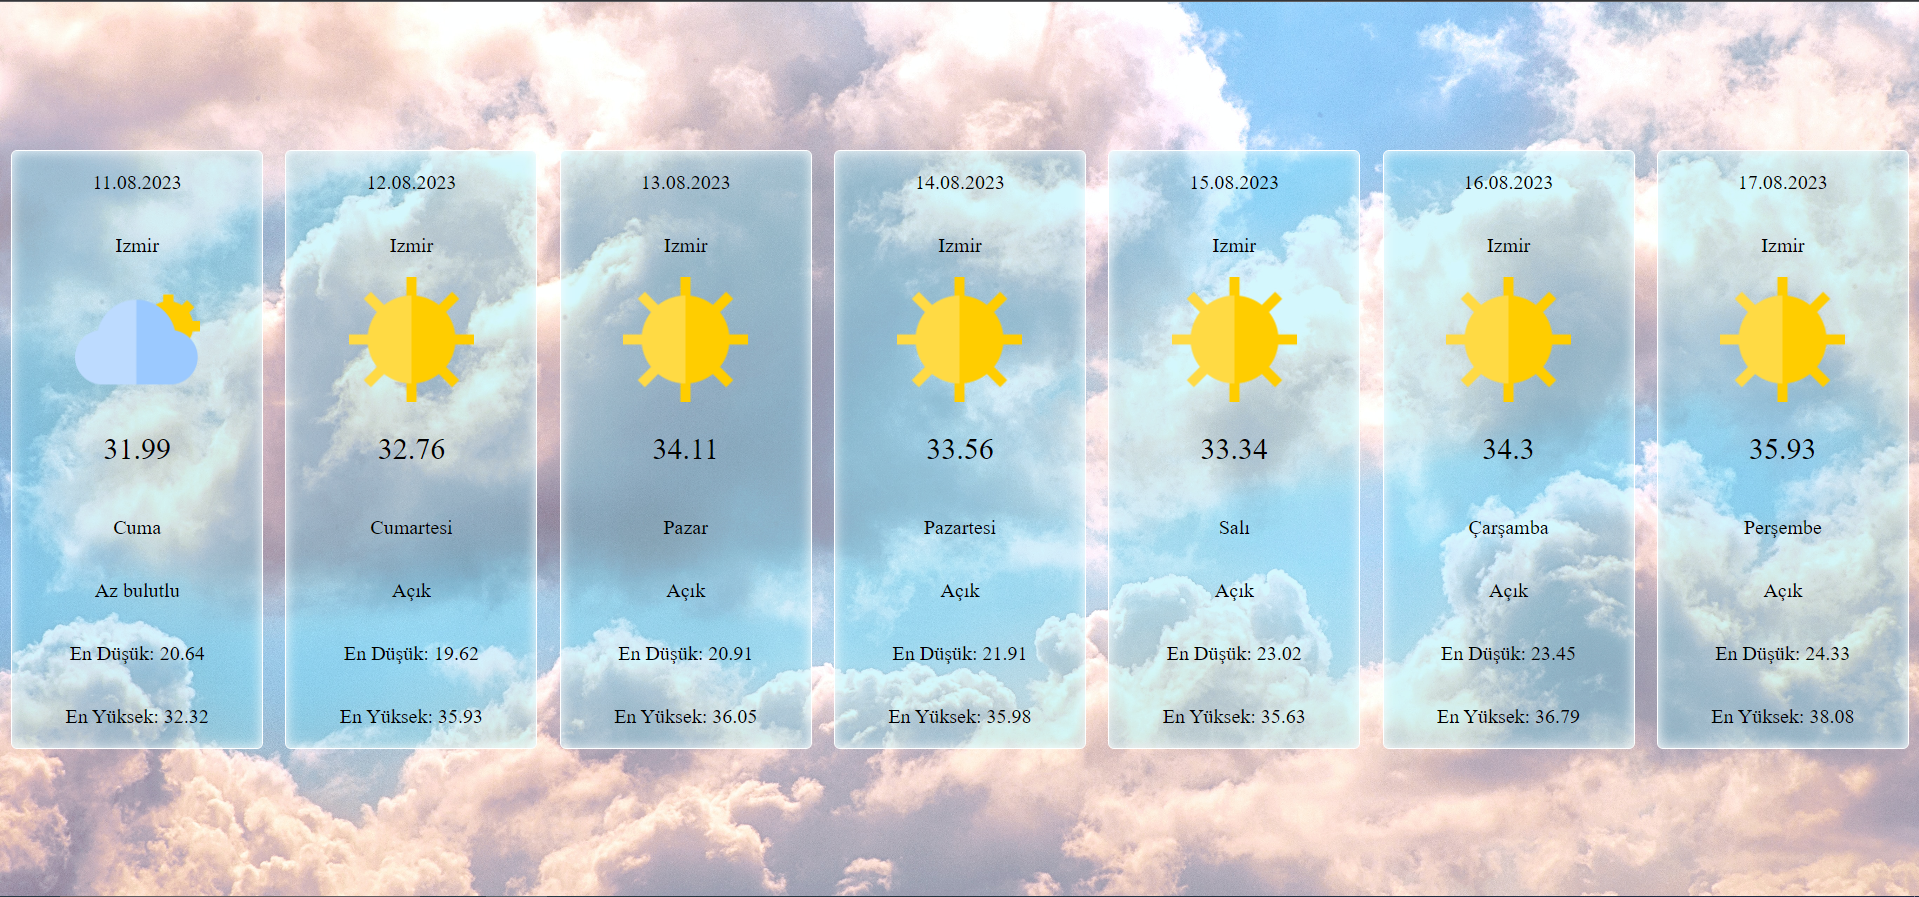
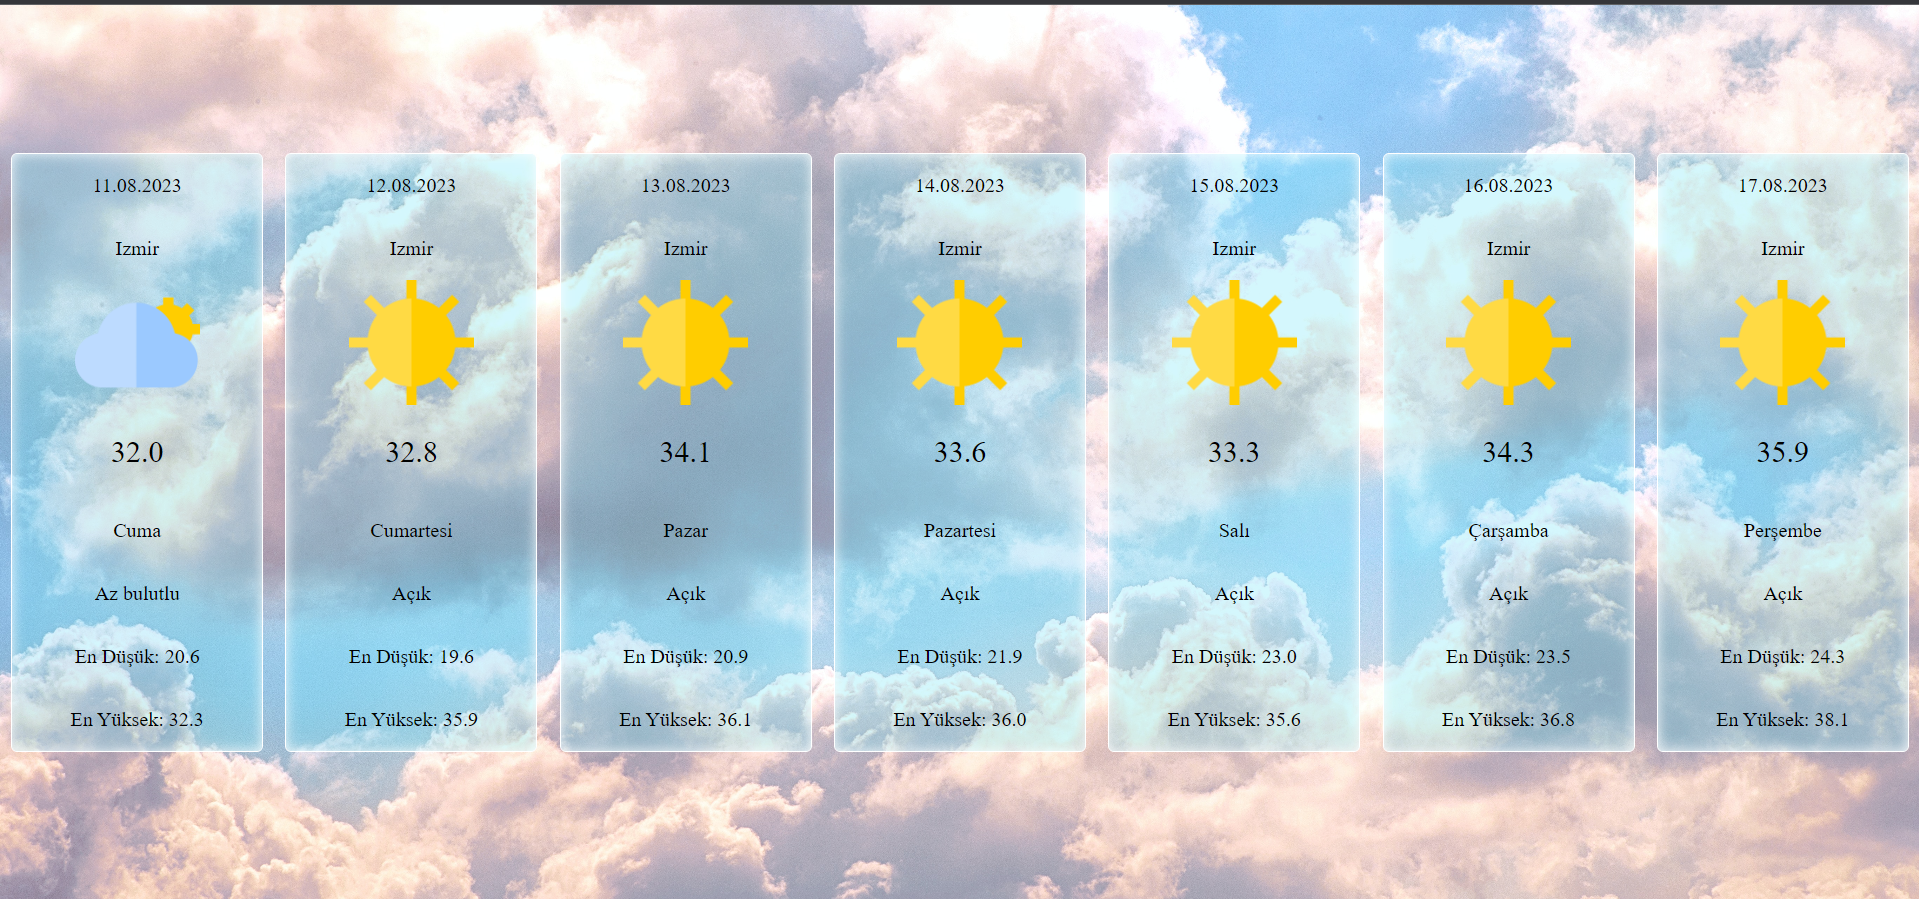
ondalıklı sayılar ve ekran görüntüsü güncellendi

diff --git a/index.php b/index.php
@@ -25,17 +25,17 @@ $router->map('POST','/', function(){
 
         if (isset($result['result']) && is_array($result['result'])) {
             echo "<div class='weather-container' style='display:flex;width: 100%;align-items: center;justify-content: center;justify-content: space-around;'>";
-
+            
             foreach ($result['result'] as $weatherData) {
                 echo "<div class='card' style='border-style:solid; border-width: 1px; border-color: white;width: 200px;height: auto; display: flex; flex-direction: column; align-items: center;background-color: rgba(115, 228, 250, 0.3);box-shadow: inset 0px 0px 10px rgba(255,255,255,0.9);border-radius: 5px 5px 5px 5px;'>
                         <p>" . $weatherData['date'] . "</p>
                         <p>" . ucfirst($result['city']) . "</p>
                         <img src='" . $weatherData['icon'] . "' style='width: 100px; height: auto;'>
-                        <p style='font-size:x-large;'>" . $weatherData['degree'] . "</p>
+                        <p style='font-size:x-large;'>" . number_format($weatherData['degree'], 1, '.', '') . "</p>
                         <p>" . $weatherData['day'] . "</p>
                         <p>" . ucfirst($weatherData['description']) . "</p>
-                        <p>En Düşük: " . $weatherData['min'] . "</p>
-                        <p>En Yüksek: " . $weatherData['max'] . "</p>
+                        <p>En Düşük: " . number_format($weatherData['min'], 1, '.', '') . "</p>
+                        <p>En Yüksek: " . number_format($weatherData['max'], 1, '.', '') . "</p>
                     </div>";
             }
             echo "</div>";
